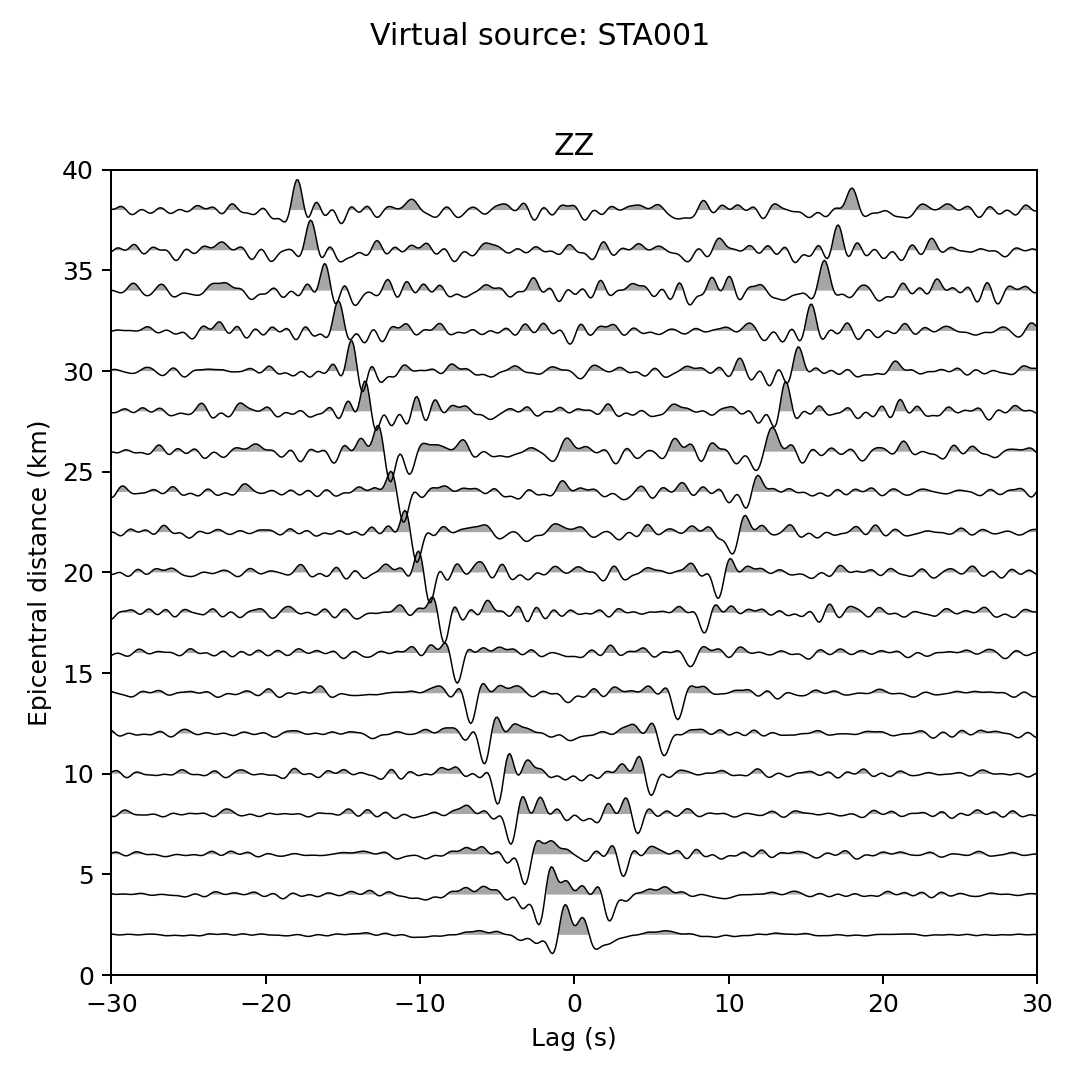
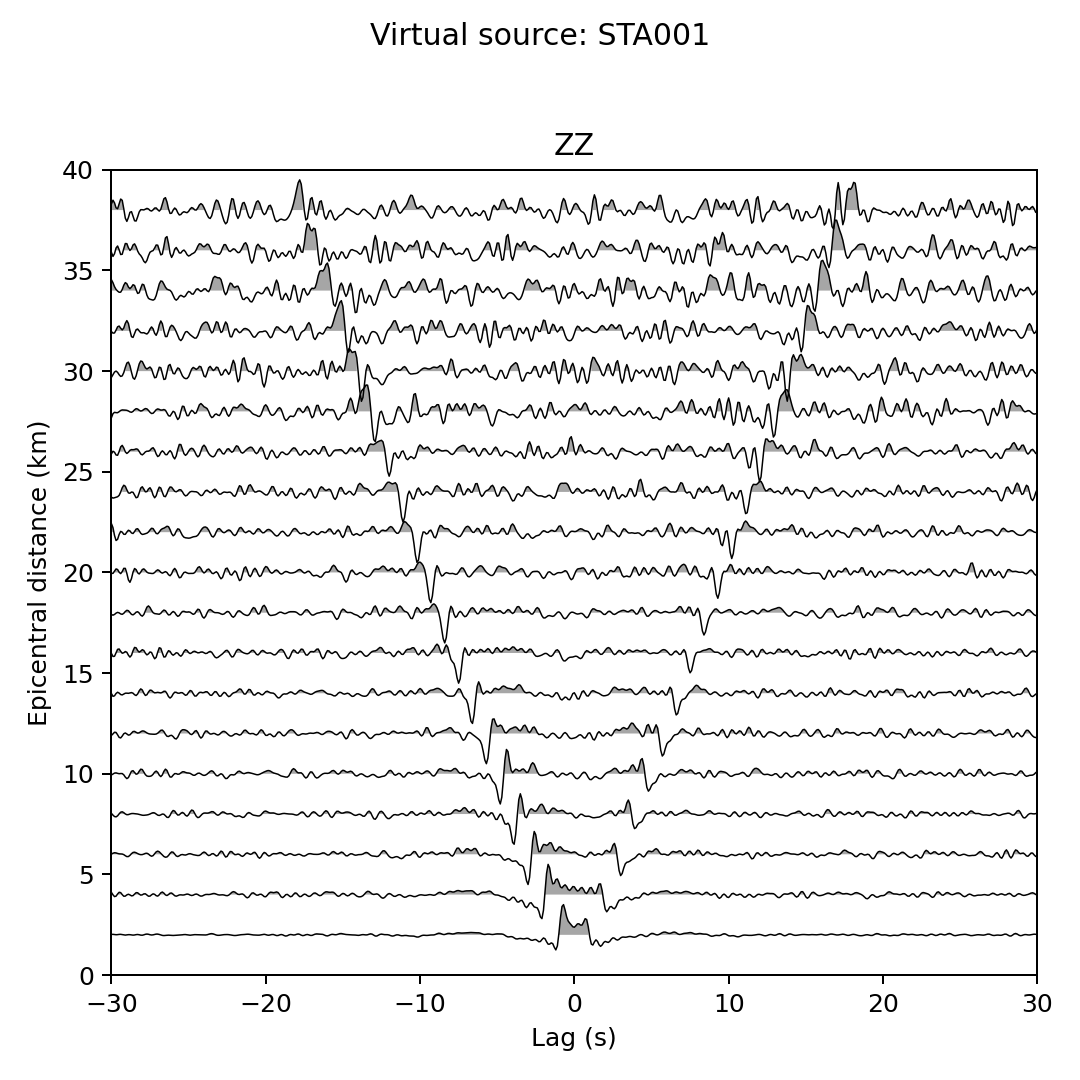
DOC: add FTAN example for ambient noise dispersion picking (#444)

Changed region(s): [[0.0917, 0.1528, 0.9472, 0.8861], [0.6417, 0.825, 0.8861, 0.8861], [0.1222, 0.7639, 0.1528, 0.7944]]

diff --git a/docs/source/Gallery/ex25/07_ftan.py b/docs/source/Gallery/ex25/07_ftan.py
@@ -1,0 +1,200 @@
+"""对 ZZ 互相关做 FTAN，并与基阶 Rayleigh 理论频散对比"""
+
+from pathlib import Path
+
+import matplotlib.patheffects as path_effects
+import matplotlib.pyplot as plt
+import numpy as np
+from obspy import read
+from scipy.fft import fft, fftfreq, ifft, next_fast_len
+from scipy.signal import find_peaks
+from scipy.signal.windows import tukey
+
+import pygrt
+
+
+# 在本脚本所在目录运行，使用 ex25 已有的互相关和理论频散文件
+INPUT           = "ambient_ccf/ZZ/STA001_STA011.ZZ.sac"
+PHASE_INPUT     = "ambient_run/phaseR.nc"
+GROUP_INPUT     = "ambient_run/groupR.nc"
+OUTPUT          = Path("ambient_figures")
+FREQMIN         = 0.1                          # 预滤波频带下限，Hz
+FREQMAX         = 1.5                          # 预滤波频带上限，Hz
+FREQUENCIES     = np.linspace(FREQMIN, FREQMAX, 281)
+VELOCITIES      = np.linspace(1.0, 4.5, 401)    # 群速度和相速度绘图网格，km/s
+ALPHA           = 20.0                         # 群速度使用固定的高斯滤波参数
+GAMMA           = np.sqrt(ALPHA / np.pi)           # 相速度使用随频率变化的高斯滤波宽度参数
+GROUP_WINDOW    = (1.4, 3.5)                    # 群速度搜索范围，km/s
+PHASE_REFERENCE = 3.2                          # 最低中心频率处的参考相速度，km/s，只用于确定追踪起点
+PHASE_CYCLE     = 0                            # 相位整周数 n，本例取 0，实际数据需结合参考相速度等先验信息确定
+
+
+def read_correlation(path):
+    """带通滤波后将负时延支翻转，与正时延支等权平均得到单边信号
+
+    :param path: 双边互相关的 SAC 文件
+    """
+    trace = read(path)[0]
+    trace.data = trace.data.astype(float)
+    trace.taper(max_percentage=0.05, type="cosine")
+    trace.filter("bandpass", freqmin=FREQMIN, freqmax=FREQMAX, corners=4, zerophase=True)
+
+    middle  = trace.stats.npts // 2
+    stacked = (trace.data[middle:] + trace.data[middle::-1]) / 2
+
+    times = np.arange(stacked.size) * trace.stats.delta
+    return times, stacked, trace.stats.delta, float(trace.stats.sac.dist)
+
+
+def compute_ftan(times, data, dt):
+    """对同一条单边信号做高斯窄带滤波，返回包络和实波形
+
+    :param times: 从零开始的单边时延采样，s
+    :param data: 正负支翻转平均后的单边互相关
+    :param dt: 采样间隔，s
+    """
+    nfft     = next_fast_len(4 * data.size)
+    fft_freq = fftfreq(nfft, dt)
+    window   = tukey(data.size, alpha=0.1)
+    spectrum = 2 * fft(data * window, nfft)
+    spectrum[fft_freq <= 0] = 0
+
+    envelopes = np.empty((FREQUENCIES.size, data.size))
+    waveforms = np.empty_like(envelopes)
+
+    for index, f0 in enumerate(FREQUENCIES):
+        band = spectrum * np.exp(-ALPHA * ((fft_freq - f0) / f0) ** 2)
+        envelopes[index] = np.abs(ifft(band)[:data.size])
+
+        alpha = GAMMA ** 2 * 2 * np.pi * f0
+        band  = spectrum * np.exp(-alpha * ((fft_freq - f0) / f0) ** 2)
+        waveforms[index] = ifft(band)[:data.size].real
+
+    return times, envelopes, waveforms
+
+
+def find_arrival_peaks(row, times):
+    """寻找正的局部峰，并用三点抛物线插值细化峰到时
+
+    :param row: 单个中心频率对应的包络或窄带实波形
+    :param times: 单边时延采样，s
+    """
+    peaks = find_peaks(row)[0]
+    peaks = peaks[row[peaks] > 0]
+    left, center, right = row[peaks - 1], row[peaks], row[peaks + 1]
+    offset   = (left - right) / (2 * (left - 2 * center + right))
+    arrivals = times[peaks] + offset * (times[1] - times[0])
+    return peaks, arrivals
+
+
+def phase_time_shift(frequency, cycle):
+    """将互相关的 pi/4 相位和整周数换算为到时修正，s
+
+    :param frequency: 中心频率，Hz
+    :param cycle: 相位整周数 n
+    """
+    return (1 / 8 + cycle) / frequency
+
+
+def track_arrivals(values, times, distance, velocity_window, time_shift=0, start_time=None, reverse=False):
+    """从低频向高频跟踪相邻峰，未指定起点时从速度窗内最强峰起步
+
+    :param values: 按中心频率递增排列的包络或窄带实波形
+    :param times: 正时延采样，s
+    :param distance: 台间距，km
+    :param velocity_window: 允许拾取的速度范围，km/s
+    :param time_shift: 各中心频率对应的到时修正，s，群速度使用零修正
+    :param start_time: 起始频率处的参考峰到时，s
+    :param reverse: 是否改为从高频向低频追踪
+    """
+    arrivals   = np.full(FREQUENCIES.size, np.nan)
+    time_shift = np.broadcast_to(time_shift, FREQUENCIES.shape)
+    previous   = start_time
+    indices    = range(FREQUENCIES.size)
+    if reverse:
+        indices = reversed(indices)
+
+    for index in indices:
+        row = values[index]
+        peaks, refined = find_arrival_peaks(row, times)
+        speeds = distance / (refined + time_shift[index])
+        keep   = (speeds >= velocity_window[0]) & (speeds <= velocity_window[1])
+        peaks, refined = peaks[keep], refined[keep]
+
+        # 没有局部峰的频率不拾取
+        if peaks.size == 0:
+            continue
+
+        selected = np.argmax(row[peaks]) if previous is None else np.argmin(np.abs(refined - previous))
+        arrivals[index] = previous = refined[selected]
+
+    return arrivals
+
+
+def plot_ftan(times, envelopes, waveforms, distance, group_picks, phase_picks, phase_shift):
+    """绘制群速度、相速度彩图，叠加拾取结果和基阶理论频散
+
+    :param times: 正时延采样，s
+    :param envelopes: 各中心频率对应的包络
+    :param waveforms: 各中心频率对应的窄带实波形
+    :param distance: 台间距，km
+    :param group_picks: 群速度拾取，km/s
+    :param phase_picks: 相速度拾取，km/s
+    :param phase_shift: 起始定支后，各中心频率共用的相位到时修正，s
+    """
+    normalized_envelopes = envelopes / envelopes.max(axis=1, keepdims=True)
+    normalized_waveforms = waveforms / np.max(np.abs(waveforms), axis=1, keepdims=True)
+    group_image = np.array([np.interp(distance / VELOCITIES, times, row) for row in normalized_envelopes])
+    phase_times = distance / VELOCITIES[None, :] - phase_shift[:, None]
+    phase_image = np.array([np.interp(arrivals, times, row, left=np.nan, right=np.nan)
+                            for arrivals, row in zip(phase_times, normalized_waveforms)])
+    # 在显示速度窗内逐频率重新归一化相速度图
+    phase_image /= np.nanmax(np.abs(phase_image), axis=1, keepdims=True)
+
+    # 理论频散仅用于绘图对照，不参与拾取
+    phase_reference = pygrt.io.read_dispersion(PHASE_INPUT)
+    group_reference = pygrt.io.read_dispersion(GROUP_INPUT)
+
+    fig, axes = plt.subplots(1, 2, figsize=(13, 5.3), layout="constrained")
+    outline = [path_effects.withStroke(linewidth=3.5, foreground="white")]
+    panels = (
+        ("Group", group_image, group_picks, group_reference, "u", 0),
+        ("Phase", phase_image, phase_picks, phase_reference, "c", -1),
+    )
+    for ax, panel in zip(axes, panels):
+        kind, image, picked, reference, key, vmin = panel
+        ax.pcolormesh(FREQUENCIES, VELOCITIES, image.T, cmap="jet", vmin=vmin, vmax=1, shading="auto", rasterized=True)
+        ax.plot(FREQUENCIES, picked, color="#c93b32", linewidth=1.8, label="FTAN pick", path_effects=outline)
+        ax.plot(reference["freq"][0], reference[key][0], color="#174b7a", linestyle="--", linewidth=1.8,
+                label="Fundamental Rayleigh", path_effects=outline)
+        ax.set(xlabel="Frequency (Hz)", ylabel=f"{kind} velocity (km/s)",
+               xlim=(FREQMIN, FREQMAX), ylim=(VELOCITIES[0], VELOCITIES[-1]))
+        ax.legend(loc="upper right", fontsize=8)
+
+    fig.savefig(OUTPUT / "ftan.png", dpi=180)
+    plt.close(fig)
+
+
+OUTPUT.mkdir(exist_ok=True)
+
+times, data, dt, distance = read_correlation(INPUT)
+times, envelopes, waveforms = compute_ftan(times, data, dt)
+group_arrivals = track_arrivals(envelopes, times, distance, GROUP_WINDOW, reverse=True)
+
+# 将最低频率处的参考相速度换算为起始峰到时，再向高频追踪同一分支
+phase_shift    = phase_time_shift(FREQUENCIES, PHASE_CYCLE)
+phase_start    = distance / PHASE_REFERENCE - phase_shift[0]
+phase_window   = (VELOCITIES[0], VELOCITIES[-1])
+phase_arrivals = track_arrivals(waveforms, times, distance, phase_window, phase_shift, phase_start)
+
+# 群速度使用中心频率，也可升级为群峰处的瞬时频率
+group_picks = distance / group_arrivals
+# 相速度用窄带实波形正峰到时加上统一的相位修正
+phase_picks = distance / (phase_arrivals + phase_shift)
+plot_ftan(times, envelopes, waveforms, distance, group_picks, phase_picks, phase_shift)
+
+# DATA = Path("ambient_ftan")
+# DATA.mkdir(exist_ok=True)
+# np.savetxt(DATA / "ftan_picks.txt",
+#            np.column_stack((FREQUENCIES, group_arrivals, group_picks, phase_arrivals, phase_picks)), fmt="%.8g",
+#            header="f0_Hz group_arrival_s group_velocity_km_s phase_peak_s phase_velocity_km_s")

diff --git a/pygrt/C_extension/src/dynamic/grt_synnoise.c b/pygrt/C_extension/src/dynamic/grt_synnoise.c
@@ -127,7 +127,7 @@ printf("\n"
 "\n"
 "    -O<dir>          New or empty output directory. SAC files are saved as\n"
 "                     <dir>/noise/<receiver_ID>/{Z,N,E}.sac, together with\n"
-"                     the model, dispersion files and source/receiver logs.\n"
+"                     the model, phase{R,L}.nc, group{R,L}.nc and source/receiver logs.\n"
 "                     SAC headers unused6 and unused7 store receiver North and East coordinates (km).\n"
 "                     The elevation header stel stores -1000 * depth (m), with depth in km.\n"
 "\n"
@@ -571,7 +571,8 @@ static void initialize_noise_output(const GRT_MODULE_CTRL *Ctrl)
     closedir(out);
 
     // 模型副本不能与固定输出文件重名
-    const char *reserved[] = {"noise", ".synnoise_tmp", "sources.info", "receivers.info", "phaseR.nc", "phaseL.nc"};
+    const char *reserved[] = {"noise", ".synnoise_tmp", "sources.info", "receivers.info",
+                              "phaseR.nc", "phaseL.nc", "groupR.nc", "groupL.nc"};
     for(size_t i = 0; i < sizeof(reserved) / sizeof(*reserved); ++i) {
         if(!strcmp(model->modelname, reserved[i])) {
             GRTRaiseError("Model filename conflicts with synnoise output: %s.", model->modelname);
@@ -654,6 +655,12 @@ static void compute_noise_dispersion(const GRT_MODULE_CTRL *Ctrl, real_t length)
         GRT_SAFE_ASPRINTF(&command, "%s eigenv -M%s -S%c -F0/%.17g/%.17g -C%s/phase%c.nc %s -P%d -s",
                           GRT_EXECUTABLE, Ctrl->M.path, "RL"[w], 0.5 / Ctrl->U.dt, 1 / length,
                           Ctrl->O.path, "RL"[w], modes, nthreads);
+        grt_run_command(command);
+        GRT_SAFE_FREE_PTR(command);
+
+        // 计算相速度文件中全部频率、模态对应的群速度频散
+        GRT_SAFE_ASPRINTF(&command, "%s eigenfn -C%s/phase%c.nc -N -U%s/group%c.nc",
+                          GRT_EXECUTABLE, Ctrl->O.path, "RL"[w], Ctrl->O.path, "RL"[w]);
         grt_run_command(command);
         GRT_SAFE_FREE_PTR(command);
     }

diff --git a/docs/source/Gallery/ex25/06_plot_ccf.py b/docs/source/Gallery/ex25/06_plot_ccf.py
@@ -12,6 +12,7 @@ INPUT          = Path("ambient_ccf")
 OUTPUT         = Path("ambient_figures/profiles")
 VIRTUAL_SOURCE = "STA001"                   # 虚拟源台站名；None 表示绘制全部台站
 COMPONENT      = "ZZ"                       # 互相关分量，可选 "ZZ"、"RR" 或 "TT"
+PLOT_LAG       = 30.0                       # 绘图显示的最大正负时延，s
 FIGSIZE        = (6, 6)                     # 图幅的宽和高，英寸
 TRACE_SCALE    = 1.5                        # 每条互相关归一化后的绘图半振幅，km
 
@@ -58,7 +59,7 @@ for name in sources:
         ax.plot(lags, wiggle, color="black", linewidth=0.6)
         ax.fill_between(lags, baseline, wiggle, where=values > 0, color="black", alpha=0.35, linewidth=0)
 
-    ax.set(title=COMPONENT, xlabel="Lag (s)", ylabel="Epicentral distance (km)", xlim=(lags[0], lags[-1]), ylim=(0, ymax))
+    ax.set(title=COMPONENT, xlabel="Lag (s)", ylabel="Epicentral distance (km)", xlim=(-PLOT_LAG, PLOT_LAG), ylim=(0, ymax))
 
     fig.suptitle(f"Virtual source: {name}")
     fig.tight_layout(rect=(0, 0, 1, 0.96))

diff --git a/test/synnoise/test_synnoise.py b/test/synnoise/test_synnoise.py
@@ -10,6 +10,12 @@ model = pygrt.PyModel1D(modelpath="../milrow")
 model.synnoise(source_file="noise_sources.txt", receiver_file="noise_receivers.txt",
                output_path="noise_python", modes=None, nthreads=2, print_log=False)
 
+# CLI 和 Python 输出均包含 Rayleigh、Love 群速度频散
+pygrt.io.read_dispersion("noise_cli/groupR.nc")
+pygrt.io.read_dispersion("noise_cli/groupL.nc")
+pygrt.io.read_dispersion("noise_python/groupR.nc")
+pygrt.io.read_dispersion("noise_python/groupL.nc")
+
 points = noise.random_points(2, radius_range=(2, 3), depth=0.5, seed=0)
 noise.write_sources("helper_sources.txt", points, interval=0.5, force_z_range=(-0.5, 1),
                     force_azimuth_range=(30, 150), strength_range=(1e15, 3e15), seed=0)

diff --git a/docs/source/Gallery/ex25/04_compute_ccf.py b/docs/source/Gallery/ex25/04_compute_ccf.py
@@ -12,9 +12,9 @@ from scipy.signal.windows import tukey
 # 输入、输出及互相关参数
 INPUT          = Path("ambient_segments")
 OUTPUT         = Path("ambient_ccf")
-FREQMIN        = 0.1                        # 白化频带下限，Hz
-FREQMAX        = 1.0                        # 白化频带上限，Hz
-MAX_LAG        = 30.0                       # 保留的最大正负时延，s
+FREQMIN        = 0.05                       # 白化频带下限，Hz
+FREQMAX        = 2.0                        # 白化频带上限，Hz
+MAX_LAG        = 50.0                       # 保留的最大正负时延，s
 TAPER_FRACTION = 0.05                       # 白化频带两端余弦渐变各占的比例
 
 

diff --git a/docs/source/Gallery/ex25/03_segment_ambient_noise.py b/docs/source/Gallery/ex25/03_segment_ambient_noise.py
@@ -9,8 +9,8 @@ from obspy import Stream, Trace, read
 # 输入、临时目录及预处理和分段参数
 INPUT          = Path("ambient_run")
 OUTPUT         = Path("ambient_segments")
-FREQMIN        = 0.1                        # 带通滤波频带下限，Hz
-FREQMAX        = 1.0                        # 带通滤波频带上限，Hz
+FREQMIN        = 0.05                       # 带通滤波频带下限，Hz
+FREQMAX        = 2.0                        # 带通滤波频带上限，Hz
 WINDOW_SECONDS = 300.0                      # 不重叠的分段长度，s
 
 

diff --git a/pygrt/pymod.py b/pygrt/pymod.py
@@ -723,6 +723,8 @@ class PyModel1D:
 
         Requires ``modelpath`` with a free surface and half-space bottom.
         See :doc:`/Module/synnoise` for the source and receiver file formats.
+        Saves Rayleigh and Love phase/group dispersion as ``phaseR.nc``,
+        ``phaseL.nc``, ``groupR.nc`` and ``groupL.nc`` in ``output_path``.
 
         :param    source_file:   Source coordinates and random sampling parameters.
         :param    receiver_file: Sampling interval, record length and receiver coordinates.

diff --git a/docs/source/Gallery/ex25/ex25.rst b/docs/source/Gallery/ex25/ex25.rst
@@ -82,3 +82,25 @@
 .. figure:: ambient_figures/profiles/STA001.png
     :align: center
     :width: 70%
+
+示例中也提供了一个 **FTAN（Frequency-Time Analysis，频率–时间分析）的简易版脚本**，
+用于进行群速度和相速度拾取，下图展示了其中一条互相关的处理结果。
+
+.. figure:: ambient_figures/ftan.png
+    :align: center
+
+而在实际数据处理中，拾取频散还需要加入一些频散追踪的技巧，以及考虑远场条件（例如取台间距大于两倍波长）和各种质量控制。
+
+参考文献
+========================
+
++ Bensen, G. D., Ritzwoller, M. H., Barmin, M. P., Levshin, A. L., Lin, F.,
+  Moschetti, M. P., Shapiro, N. M., and Yang, Y. (2007).
+  Processing seismic ambient noise data to obtain reliable broad-band surface wave dispersion measurements.
+  Geophysical Journal International, 169(3), 1239–1260.
+  doi: `10.1111/j.1365-246X.2007.03374.x <https://doi.org/10.1111/j.1365-246X.2007.03374.x>`_
+
++ Levshin, A. L., and Ritzwoller, M. H. (2001).
+  Automated Detection, Extraction, and Measurement of Regional Surface Waves.
+  Pure and Applied Geophysics, 158(8), 1531–1545.
+  doi: `10.1007/PL00001233 <https://doi.org/10.1007/PL00001233>`_

diff --git a/docs/source/Module/synnoise.rst b/docs/source/Module/synnoise.rst
@@ -92,7 +92,8 @@ synnoise
 **-O**\ *dir*
     不存在或为空的输出目录。每个台站的完整记录保存为
     **dir/noise/台站ID/Z.sac**、**N.sac** 和 **E.sac**，起始时刻为 **0 s**。
-    同时保存模型副本、频散文件 **phaseR.nc** 和 **phaseL.nc**、
+    同时保存模型副本、相速度频散 **phaseR.nc** 和 **phaseL.nc**、
+    对应的群速度频散 **groupR.nc** 和 **groupL.nc**、
     实际激发的震源信息 **sources.info**，以及台站文件副本 **receivers.info**。
 
 输入、输出路径仅允许英文字母、数字及 **_ . - / :**，Windows 下还允许反斜杠。
